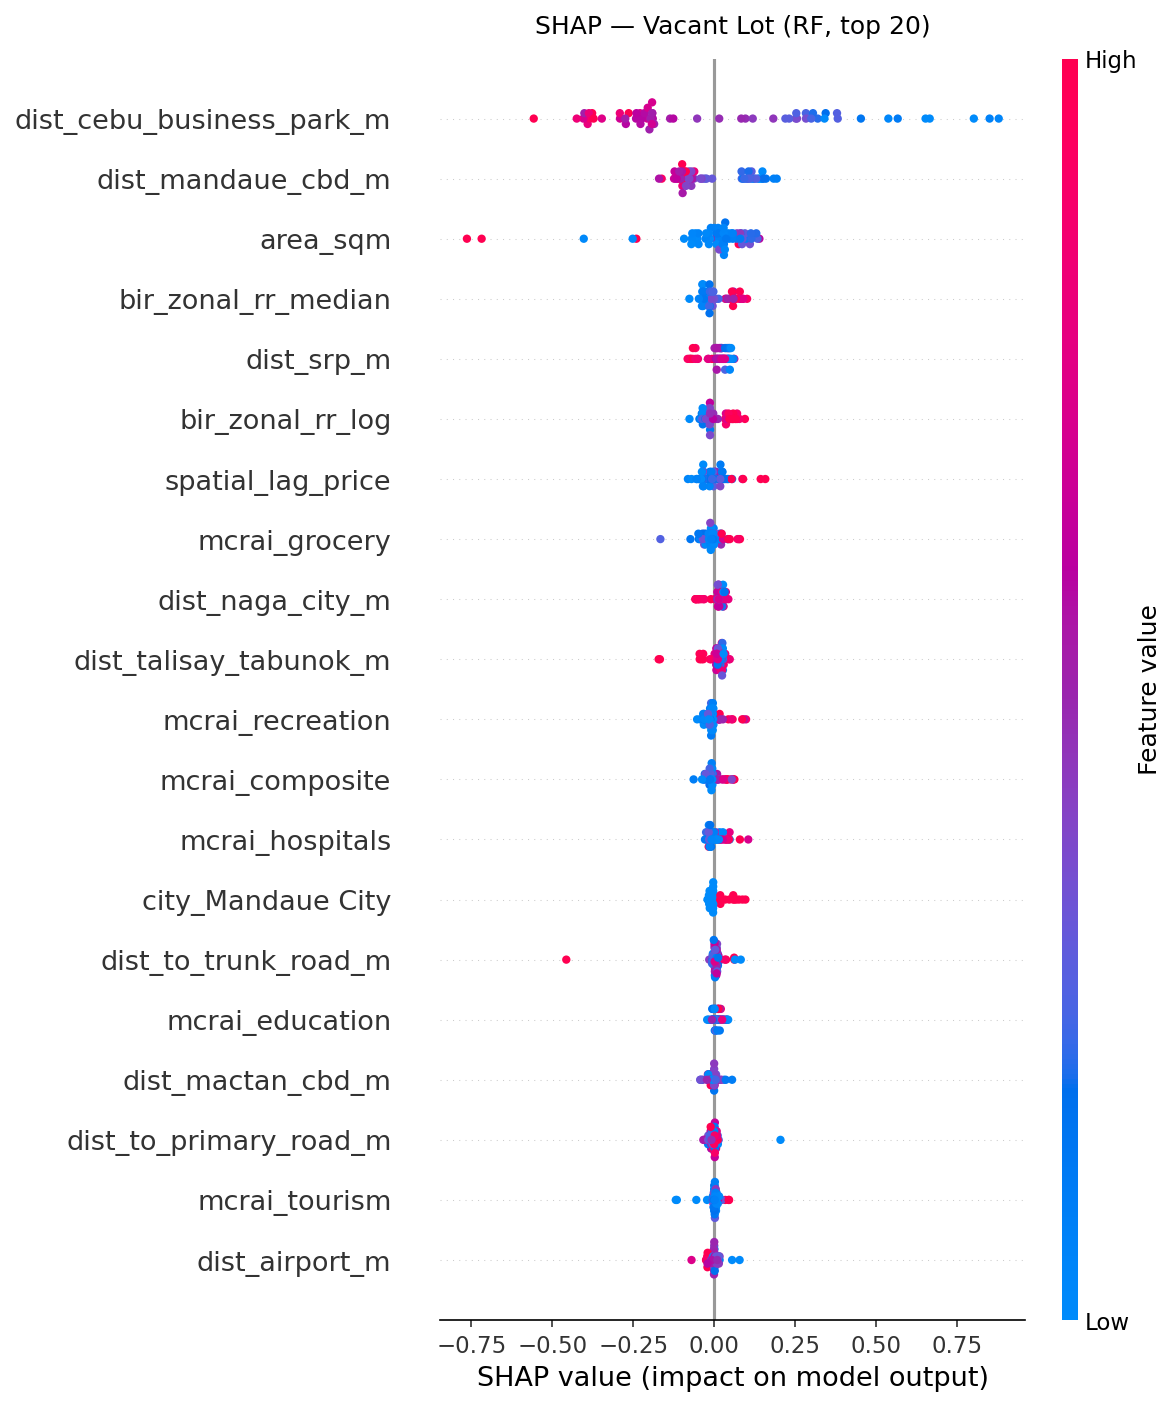
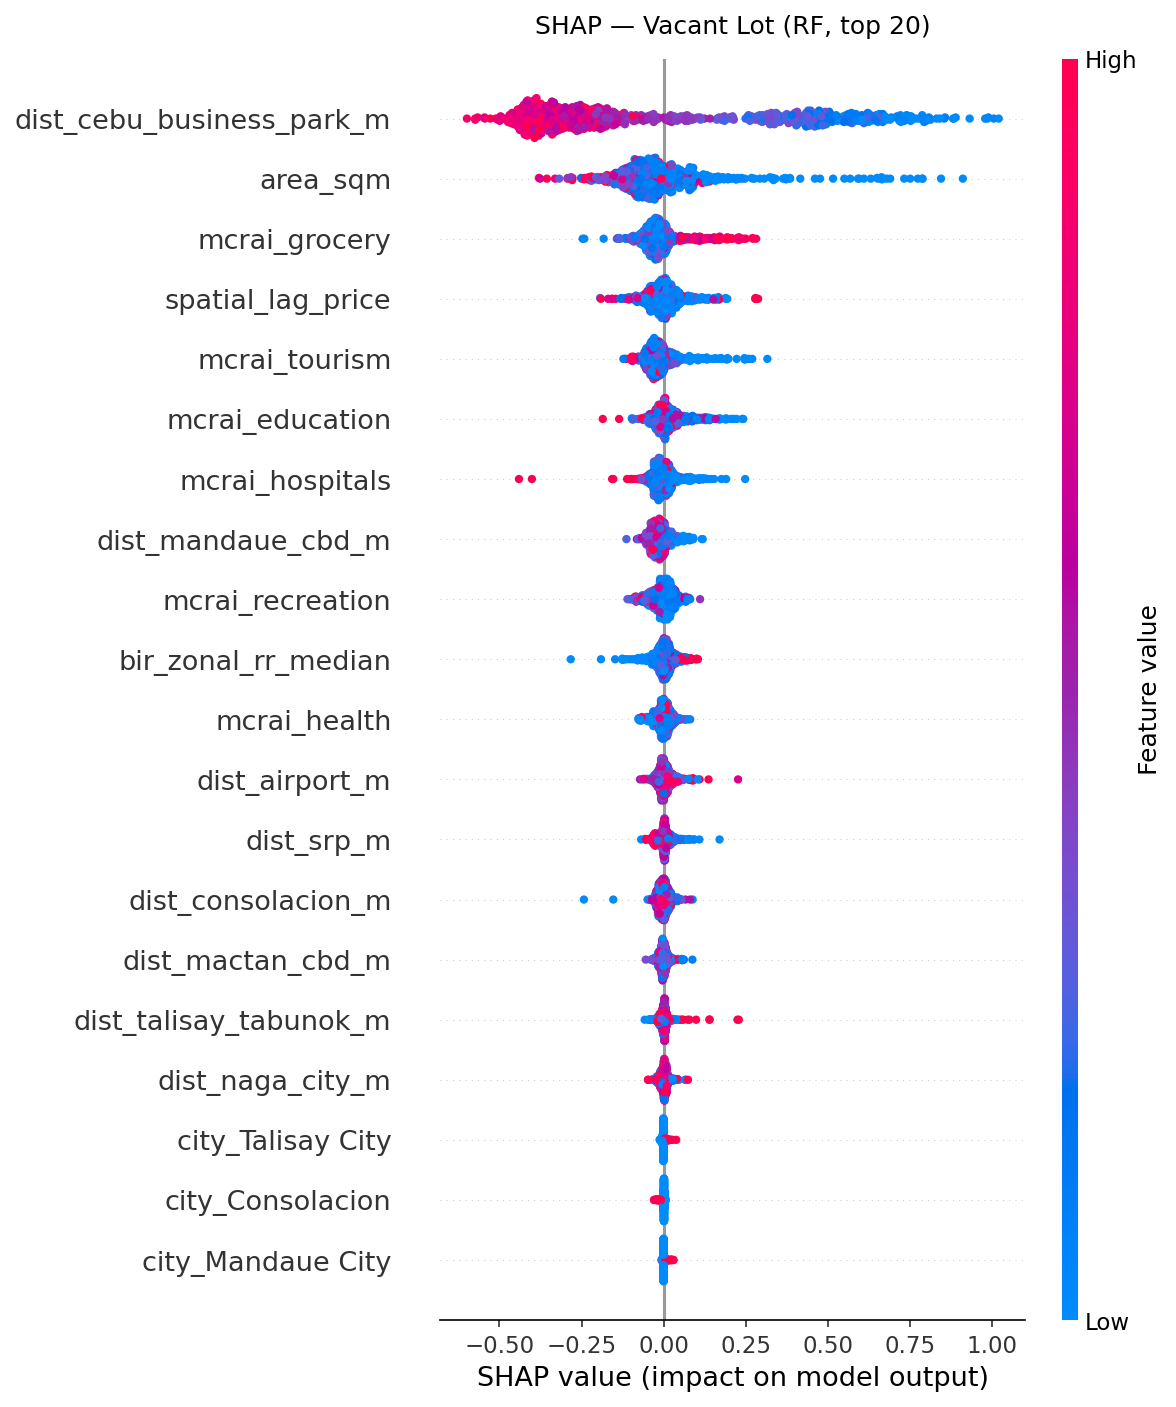
Refresh SHAP to deployed pkls + move EDA inside thesis_main
SHAP interpretation artifacts were stale and misrepresented the deployed
models (beeswarms showed individual MCRAI + road features; block summary
listed retired finance/transport). Regenerated all three beeswarms + a
deployment-matched block summary from the saved pkls via new
regen_shap_2026-06-16.py (asserts n_features_in_ match). Logged as Decision 52.

Repo hygiene: SHAP_DIR was writing to a stray workspace-root EDA/ (ROOT_DIR
leftover from the old Drive layout). Repointed SHAP_DIR to THESIS_DIR/EDA/ in
finalize_stratified_groupcv.py, finalize_lot_model.py, run_models_stratified.py;
merged fresh plots into thesis_main/EDA/ and deleted the root EDA/. All thesis
content now lives under thesis_main/.

Also logs Decision 51 (RQ4 valuation gap refreshed on the 3,616-row ABT).

diff --git a/thesis_main/Scripts/regen_shap_2026-06-16.py b/thesis_main/Scripts/regen_shap_2026-06-16.py
@@ -1,0 +1,98 @@
+"""
+regen_shap_2026-06-16.py
+========================
+Regenerate the deployed-model SHAP interpretation artifacts from the EXACT saved
+pkls, in ONE TreeExplainer pass per stratum. Supersedes the stale 2026-06-05 era
+artifacts that still showed retired/dropped features (individual MCRAI + road
+features for condo/houses; mcrai_finance/transport in the block summary).
+
+Writes:
+    EDA/plots/10_stratified_models/shap_{key}_rf_summary.png   (beeswarm, top 20)
+    Models/shap_block_summary_rf.txt                           (block aggregation, all 3 strata)
+
+No retrain. Loads each deployed pkl, rebuilds its exact lean feature matrix
+(build_features + STRATUM_DROP), asserts feature-count match, then explains.
+
+Run: ./.venv/bin/python Scripts/regen_shap_2026-06-16.py
+"""
+import os, sys, pickle
+import numpy as np
+import pandas as pd
+
+SCRIPT_DIR = os.path.dirname(os.path.abspath(__file__))
+sys.path.insert(0, SCRIPT_DIR)
+import finalize_stratified_groupcv as F  # build_features, STRATUM_DROP, dirs
+
+import matplotlib; matplotlib.use("Agg")
+import matplotlib.pyplot as plt
+import shap
+
+STRATA = {
+    "condo":  ("abt_condo.csv",  "Condominium"),
+    "houses": ("abt_houses.csv", "Houses"),
+    "lot":    ("abt_lot.csv",    "Vacant Lot"),
+}
+
+
+def blocks(cols):
+    cbd   = [c for c in cols if c.startswith("dist_") and c.endswith("_m") and "road" not in c]
+    mcrai = [c for c in cols if c.startswith("mcrai_")]
+    slag  = [c for c in cols if c == "spatial_lag_price"]
+    bir   = [c for c in cols if c.startswith("bir_")]
+    cityt = [c for c in cols if c.startswith("city_") or c.startswith("property_type_")]
+    used  = set(cbd + mcrai + slag + bir + cityt)
+    struct = [c for c in cols if c not in used]
+    return {"CBD distances": cbd, "MCRAI": mcrai, "spatial_lag_price": slag,
+            "BIR zonal": bir, "city/type dummies": cityt, "structural": struct}
+
+
+def main():
+    summary_lines = ["SHAP Block Aggregation — Random Forest (deployed stratified models)",
+                     "Regenerated 2026-06-16 from deployed pkls (matches deployment_manifest.json).",
+                     "=" * 72]
+    for key, (csv, label) in STRATA.items():
+        df = pd.read_csv(os.path.join(F.PROCESSED_DIR, csv)).reset_index(drop=True)
+        X, _ = F.build_features(df)
+        drop = [c for c in F.STRATUM_DROP.get(key, []) if c in X.columns]
+        if drop:
+            X = X.drop(columns=drop)
+        with open(os.path.join(F.MODELS_DIR, f"{key}_model.pkl"), "rb") as fh:
+            model = pickle.load(fh)
+        assert model.n_features_in_ == X.shape[1], \
+            f"{key}: model expects {model.n_features_in_} feats, rebuilt {X.shape[1]}"
+
+        print(f"=== {label}: explaining {X.shape[1]} feats x {len(X)} rows ===", flush=True)
+        sv = shap.TreeExplainer(model).shap_values(X, check_additivity=False)
+        msh = np.abs(sv).mean(0)
+        s = pd.Series(msh, index=X.columns).sort_values(ascending=False)
+
+        # beeswarm
+        shap.summary_plot(sv, X, max_display=20, show=False, plot_type="dot")
+        plt.title(f"SHAP — {label} (RF, top 20)", pad=12); plt.tight_layout()
+        out = os.path.join(F.SHAP_DIR, f"shap_{key}_rf_summary.png")
+        plt.savefig(out, dpi=150, bbox_inches="tight"); plt.close("all")
+        print(f"  beeswarm -> {out}", flush=True)
+
+        # block summary text
+        tot = s.sum()
+        summary_lines += ["", f"[{label}]  n={len(X)}  features={X.shape[1]}",
+                          "-" * 60, "  Block                     Sum|SHAP|    % of total"]
+        for name, cols in blocks(X.columns).items():
+            ssum = s[cols].sum() if cols else 0.0
+            summary_lines.append(f"  {name:<24} {ssum:10.4f}   {ssum/tot*100:6.1f}%")
+        summary_lines.append("  Top 8 features (mean|SHAP|):")
+        for f, v in s.head(8).items():
+            summary_lines.append(f"      {v:9.4f}   {f}")
+
+    txt = os.path.join(F.MODELS_DIR.replace(os.path.join("Models", "stratified"), "Models"),
+                       "shap_block_summary_rf.txt")
+    # F.MODELS_DIR is .../Models/stratified; block summary lives in .../Models
+    txt = os.path.join(os.path.dirname(F.MODELS_DIR), "shap_block_summary_rf.txt")
+    with open(txt, "w") as fh:
+        fh.write("\n".join(summary_lines) + "\n")
+    print(f"\nblock summary -> {txt}", flush=True)
+    print("Done — SHAP artifacts refreshed against deployed pkls.", flush=True)
+
+
+if __name__ == "__main__":
+    main()

diff --git a/thesis_main/Scripts/finalize_stratified_groupcv.py b/thesis_main/Scripts/finalize_stratified_groupcv.py
@@ -37,7 +37,8 @@ THESIS_DIR = os.path.dirname(SCRIPT_DIR)
 ROOT_DIR = os.path.dirname(THESIS_DIR)
 PROCESSED_DIR = os.path.join(THESIS_DIR, "Data", "processed")
 MODELS_DIR = os.path.join(THESIS_DIR, "Models", "stratified")
-SHAP_DIR = os.path.join(ROOT_DIR, "EDA", "plots", "10_stratified_models")
+# EDA outputs live inside thesis_main (all thesis content stays under thesis_main/).
+SHAP_DIR = os.path.join(THESIS_DIR, "EDA", "plots", "10_stratified_models")
 os.makedirs(SHAP_DIR, exist_ok=True)
 
 RANDOM_STATE = 42

diff --git a/thesis_main/Scripts/run_models_stratified.py b/thesis_main/Scripts/run_models_stratified.py
@@ -64,7 +64,7 @@ ROOT_DIR   = os.path.dirname(THESIS_DIR)            # workspace root (16 Thesis/
 
 PROCESSED_DIR = os.path.join(THESIS_DIR, "Data", "processed")
 MODELS_DIR    = os.path.join(THESIS_DIR, "Models", "stratified")
-SHAP_DIR      = os.path.join(ROOT_DIR, "EDA", "plots", "10_stratified_models")
+SHAP_DIR      = os.path.join(THESIS_DIR, "EDA", "plots", "10_stratified_models")
 
 os.makedirs(MODELS_DIR, exist_ok=True)
 os.makedirs(SHAP_DIR, exist_ok=True)

diff --git a/thesis_main/Scripts/finalize_lot_model.py b/thesis_main/Scripts/finalize_lot_model.py
@@ -45,7 +45,7 @@ THESIS_DIR = os.path.dirname(SCRIPT_DIR)
 ROOT_DIR = os.path.dirname(THESIS_DIR)
 PROCESSED_DIR = os.path.join(THESIS_DIR, "Data", "processed")
 MODELS_DIR = os.path.join(THESIS_DIR, "Models", "stratified")
-SHAP_DIR = os.path.join(ROOT_DIR, "EDA", "plots", "10_stratified_models")
+SHAP_DIR = os.path.join(THESIS_DIR, "EDA", "plots", "10_stratified_models")
 os.makedirs(SHAP_DIR, exist_ok=True)
 
 RANDOM_STATE = 42

diff --git a/thesis_main/reference/modeling_decisions.md b/thesis_main/reference/modeling_decisions.md
@@ -2147,3 +2147,61 @@ Outputs: `model_comparison_groupcv.csv`, `ablation_groupcv.csv` (both rerun). RQ
 pending. Manuscript prose remains the next phase.
 
 **Next decision number: 51.**
+
+## Decision 51 — RQ4 valuation gap refreshed on the 3,616-row ABT (2026-06-16)
+Re-ran `answer_rq4.py` on the current 3,616-row open-market ABT. The output files
+(`Models/stratified/valuation_gap_summary.csv`, `Data/processed/valuation_gap_per_property.csv`,
+`QGIS/data/valuation_gap.geojson`) now reflect the expanded data and **supersede the n=1,616 figures
+in the Decision 44 narrative** (which were never updated in place — left as historical record). No
+script or model change: same leak-free out-of-fold RF predictions, manifest `best_params`,
+GroupKFold(5) by coordinate cluster, target `log_price` back-transformed via `exp`.
+
+**Coverage:** 3,372 valid properties (3,616 minus 244 rows with missing/zero `bir_zonal_rr_median`).
+Strata: Condo 1,300 / Houses 1,223 / Lot 849.
+
+**Headline finding (vacant lots, clean land-to-land vs land-area BIR):** market `price_per_sqm` runs
+**~3× the BIR zonal benchmark overall**, ranging **2.2× (Cebu City) → 4.8× (Mandaue)** by LGU
+(Consolacion 4.5×, Lapu-Lapu 3.0×, Minglanilla 2.7×, Talisay 2.5×). Model-predicted lot prices track
+the same band (2.1×–5.8×). BIR lags the market almost everywhere: `pct_market_above_bir` ≈ 100% in
+every LGU except Cebu City lots (88%) — i.e. BIR zonal values are systematically below open-market
+levels across Metro Cebu.
+
+**Caveat — condo/house gaps are NOT directly comparable and must not be headlined.** Their median
+listing gaps (~736% condo, ~634% houses) are inflated because the numerator is a floor-area
+`price_per_sqm` while the BIR denominator is a land-area benchmark — a unit mismatch, not a true
+overvaluation. The defensible RQ4 claim is the **vacant-lot** comparison (land-to-land); condo/house
+figures are reported only as directional context with the mismatch flagged.
+
+**Next decision number: 52.**
+
+## Decision 52 — SHAP interpretation artifacts refreshed + EDA moved inside thesis_main (2026-06-16)
+**Integrity fix, no model change.** The committed SHAP artifacts were stale and misrepresented the
+deployed models: the beeswarm PNGs showed individual MCRAI + road-distance features (retired/dropped
+per Decisions 47i/49), and `Models/shap_block_summary_rf.txt` still listed `mcrai_finance`/
+`mcrai_transport`. Regenerated all three beeswarms + a deployment-matched block summary directly from
+the saved pkls (new `Scripts/regen_shap_2026-06-16.py`; one TreeExplainer pass per stratum; asserts
+`n_features_in_` match). Cross-checked: deployed pkl feature lists == `deployment_manifest.json`
+exactly (condo 21 / houses 24 / lot 22).
+
+**SHAP block aggregation (mean|SHAP|, deployed RF):**
+- **Condo:** spatial_lag_price 33.5% · CBD distances 30.2% · structural 28.6% · MCRAI 4.9% · BIR 2.2%
+  · city/type 0.6%. Local comps + size dominate; land-based BIR nearly irrelevant for vertical units.
+- **Houses:** CBD distances 38.5% · structural 35.2% · spatial_lag 13.5% · city/type 6.4% · MCRAI 3.9%
+  · BIR 2.6%. `dist_cebu_business_park_m` is the single top feature (bid-rent to primary CBD).
+- **Lot:** CBD distances 56.8% · MCRAI 22.4% · structural 12.4% · spatial_lag 4.7% · BIR 2.7% ·
+  city/type 1.1%. Purest land-value gradient; `dist_cebu_business_park_m` alone ≈ 45% of lot mean|SHAP|.
+  Highest MCRAI share of any stratum — empirically supports Decision 49 keeping individual MCRAI for
+  lots while condo/houses use `mcrai_composite`.
+
+Geospatial share (CBD + MCRAI + spatial_lag): Condo ~68.6%, Houses ~55.9% (~62% incl. admin location),
+Lot ~83.9% — consistent with the RQ1 location-dominance finding.
+
+**Repo hygiene:** all thesis content now lives under `thesis_main/`. The SHAP plots had been writing to
+a stray workspace-root `EDA/` (scripts computed `SHAP_DIR` from `ROOT_DIR`, a leftover from the old
+Drive layout where `EDA/` sat beside `thesis_main/`). Pointed `SHAP_DIR` at `THESIS_DIR/EDA/...` in
+`finalize_stratified_groupcv.py`, `finalize_lot_model.py`, `run_models_stratified.py`; merged the fresh
+plots into `thesis_main/EDA/` and deleted the root `EDA/`. Workspace root now holds only non-thesis
+metadata (presentations, checklists, README, config). **NOTE: applied on `dev/modeling` only — must be
+merged to `main` + other worktrees to remove the duplicate EDA everywhere.**
+
+**Next decision number: 53.**
